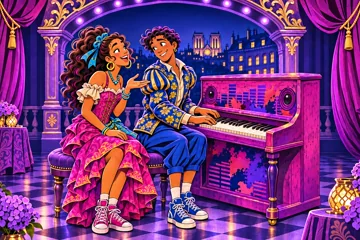
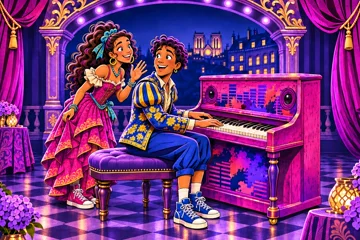
Correct the ballroom meeting and surprise at the piano

diff --git a/src/components/StoryLighting.tsx b/src/components/StoryLighting.tsx
@@ -5,8 +5,6 @@ type Light = [x: number, y: number, color: 'gold' | 'rose' | 'blue'];
 type LightingCue = {label: string; announcement: string; target: [number, number]; pools: readonly Light[]};
 
 const lighting: Partial<Record<number, LightingCue>> = {
-  15: {label: 'להאיר את הפסנתר', announcement: 'האור עובר מהקלידים אל פרנסואה ומיי.', target: [43, 71], pools: [[43, 62, 'gold'], [31, 30, 'blue'], [62, 26, 'rose']]},
-  17: {label: 'להאיר את הקלידים', announcement: 'אור ורוד נוגע בקלידים, וג׳ולייט ופרנסואה מקשיבים זה לזה.', target: [65, 61], pools: [[64, 53, 'rose'], [46, 25, 'blue'], [32, 27, 'gold']]},
   19: {label: 'להדליק אור לשניים', announcement: 'אנג׳ליק ולאנס מזהים זה את זו.', target: [50, 66], pools: [[32, 31, 'rose'], [64, 30, 'gold']]},
   22: {label: 'להאיר את השיחה', announcement: 'אור רך מתקרב אל מיי ופרנסואה.', target: [48, 71], pools: [[38, 34, 'blue'], [60, 36, 'rose']]},
   27: {label: 'לראות מי מחזיק בנוצה', announcement: 'אור נפרד מאיר את אן ואת שייקספיר בזמן הוויכוח.', target: [50, 70], pools: [[34, 34, 'rose'], [69, 36, 'gold']]},

diff --git a/build/offline-book-plugin.ts b/build/offline-book-plugin.ts
@@ -28,8 +28,8 @@ export function offlineBook(): Plugin {
         const scene = String(i).padStart(2, '0');
         for (const kind of ['story','thumbs']) if (!names.includes(`assets/${kind}/scene-${scene}.webp`)) throw new Error(`Offline book inventory is missing ${kind}/scene-${scene}.webp`);
       }
-      const performanceFrames = [18,20,26,31,33,36,38,40,42,43,46,48].flatMap(scene => ['prep','hit'].map(pose => `assets/performance/scene-${scene}-${pose}.webp`));
-      const restingArtwork = ['01','15','17','18','33'].map(scene => `assets/performance/scene-${scene}-rest.webp`);
+      const performanceFrames = [15,17,18,20,26,31,33,36,38,40,42,43,46,48].flatMap(scene => ['prep','hit'].map(pose => `assets/performance/scene-${scene}-${pose}.webp`));
+      const restingArtwork = ['01','18','33'].map(scene => `assets/performance/scene-${scene}-rest.webp`);
       for (const path of [...performanceFrames, ...restingArtwork]) if (!names.includes(path)) throw new Error(`Offline book inventory is missing ${path}`);
       if (!names.includes('index.html')) throw new Error('Offline book inventory requires index.html');
       const template = await readFile(resolve(config.root, 'build/offline-book-worker.js'), 'utf8');

diff --git a/src/components/Stage.tsx b/src/components/Stage.tsx
@@ -18,6 +18,8 @@ type Geometry = {hotspots: Point[]; interactionAnchor?: {x: number; y: number}};
 const sceneGeometry = geometry.scenes as Record<string, Geometry>;
 
 const performanceCues: Partial<Record<ChoreographyScene, {x: number; y: number; icon: IconName; label: string; announcement: string}>> = {
+  15: {x: 48, y: 78, icon: 'spark', label: 'לפגוש את פרנסואה', announcement: 'מיי ופרנסואה נתקלים זה בזה ומחייכים.'},
+  17: {x: 50, y: 75, icon: 'music', label: 'להפתיע את פרנסואה בפסנתר', announcement: 'ג׳ולייט מגיעה מאחור. פרנסואה מסתובב אליה ומחייך.'},
   18: {x: 42, y: 77, icon: 'music', label: 'לרקוד על השולחן', announcement: 'ג׳ולייט ופרנסואה רוקדים על השולחן!'},
   20: {x: 51, y: 40, icon: 'music', label: 'לנסות את הצעד של לאנס', announcement: 'אנג׳ליק תופסת את לאנס והוא חוזר לרקוד.'},
   26: {x: 47, y: 71, icon: 'spark', label: 'לפתוח מקום לג׳ולייט', announcement: 'ג׳ולייט פונה לקהל ורומיאו מקשיב.'},

diff --git a/src/content/scenes.ts b/src/content/scenes.ts
@@ -27,7 +27,7 @@ export const characterInfo: Record<CharacterId, {name: string; description: stri
   romeo: {name: 'רומיאו', description: "כוכב עם המון ביטחון. גם הוא יכול ללמוד להקשיב ולהכיר את ג'ולייט מחדש.", image: 'romeo'},
 };
 export const asset = (path: string) => `${import.meta.env.BASE_URL}assets/${path}`;
-const revisedArt: Partial<Record<number, 'rest' | 'hit'>> = {1: 'rest', 15: 'rest', 17: 'rest', 18: 'rest', 31: 'hit', 33: 'rest', 46: 'hit'};
+const revisedArt: Partial<Record<number, 'rest' | 'hit'>> = {1: 'rest', 15: 'hit', 17: 'hit', 18: 'rest', 31: 'hit', 33: 'rest', 46: 'hit'};
 const sceneFile = (scene: number) => `scene-${String(scene).padStart(2, '0')}`;
 export const illustration = (scene: number) => asset(revisedArt[scene]
   ? `performance/${sceneFile(scene)}-${revisedArt[scene]}.webp`

diff --git a/src/components/CharacterChoreography.tsx b/src/components/CharacterChoreography.tsx
@@ -4,6 +4,28 @@ import {asset} from '../content/scenes';
 import '../styles/character-choreography.css';
 
 const performances = {
+  15: {
+    entrance: .62,
+    rest: 7.2,
+    light: [.56],
+    moves: [
+      ['prep', 1, .22, .04],
+      ['hit', 1, .23, .61],
+      ['prep', 0, 0, .86],
+      ['hit', 0, .22, 2.14],
+    ],
+  },
+  17: {
+    entrance: .75,
+    rest: 8,
+    light: [1.12],
+    moves: [
+      ['prep', 1, .30, .04],
+      ['hit', 1, .42, 1.15],
+      ['prep', 0, 0, 1.59],
+      ['hit', 0, .28, 2.69],
+    ],
+  },
   18: {
     entrance: .7,
     rest: 7,

diff --git a/src/styles/character-choreography.css b/src/styles/character-choreography.css
@@ -26,6 +26,14 @@
   will-change: opacity;
 }
 
+.character-choreography[data-choreography="15"] .choreography-light {
+  background: radial-gradient(ellipse at 49% 29%, #ffc0db45, transparent 60%);
+}
+
+.character-choreography[data-choreography="17"] .choreography-light {
+  background: radial-gradient(ellipse at 49% 43%, #ffd6aa44, transparent 56%);
+}
+
 .character-choreography[data-choreography="18"] .choreography-light {
   background: radial-gradient(ellipse at 30% 39%, #ffc97848, transparent 48%);
 }

diff --git a/docs/LIVE_MUSICAL_DIRECTION_HE.md b/docs/LIVE_MUSICAL_DIRECTION_HE.md
@@ -27,7 +27,7 @@
 
 ## הפסנתר והתלבושת
 
-הצילום המצורף של ג׳ולייט ופרנסואה ליד הפסנתר מנחה את עיצוב הכלי. לגוף הפסנתר חזית בסגנון בומבוקס עם שני עיגולי רמקולים וצבעי תכלת, ורוד וסגול. פרנסואה מזוהה לפי התלתלים הקצרים והז׳קט הכחול הפרחוני. בסצנה 17 הם נפגשים ליד הפסנתר ב־**Overprotected**. בסצנה 18 הם רוקדים על שולחן ב־**Confident**, ואז האיור חוזר לנשיקה שמיי רואה. [מדריך ההפקה הרשמי](https://andjulietthemusical.com/wp-content/uploads/2025/02/AJ-110925-019140-EducationPack_TeacherWorkbook_L2-2.pdf)
+הצילום המצורף של ג׳ולייט ופרנסואה ליד הפסנתר מנחה את עיצוב הכלי. לגוף הפסנתר חזית בסגנון בומבוקס עם שני עיגולי רמקולים וצבעי תכלת, ורוד וסגול. פרנסואה מזוהה לפי התלתלים הקצרים והז׳קט הכחול הפרחוני. מיי נתקל בפרנסואה בין הרוקדים בנשף. בסצנה 17 ג׳ולייט שומעת את פרנסואה מנגן לבד בפסנתר ומפתיעה אותו מאחור ב־**Overprotected**. בסצנה 18 הם רוקדים על שולחן ב־**Confident**, ואז האיור חוזר לנשיקה שמיי רואה. [מדריך ההפקה הרשמי](https://andjulietthemusical.com/wp-content/uploads/2025/02/AJ-110925-019140-EducationPack_TeacherWorkbook_L2-2.pdf)
 
 ב־**Roar** תצלום התלבושת מנחה את המחוך המוזהב עם הפסים האלכסוניים, מכנסי הבלון בפוקסיה והמגפיים הסגולים הגבוהים. המרפסת הירוקה וזיקוקי ה־LED נשארים עוגני הסצנה. אותה תלבושת משמשת בפריים המנוחה, בשירה לתוך המיקרופון ובהנפה מעל הראש.
 
@@ -48,7 +48,7 @@
 
 | סצנה | שיר | מה רון מזהה | בימוי | נכסים |
 |---|---|---|---|---|
-| 01 · יש לי מחזה חדש! | Larger Than Life | שייקספיר הוא מי שמספר את הסיפור | פריים רחב כמו פתיחת מסך. הספוט הזהוב מציג את שייקספיר ואת הנוצה, ופרנסואה מלווה בפסנתר בקצה השמאלי. | איור במה מתוקן. |
+| 01 · יש לי מחזה חדש! | Larger Than Life | שייקספיר הוא מי שמספר את הסיפור | פריים רחב כמו פתיחת מסך. הספוט הזהוב מציג את שייקספיר ואת הנוצה, ופרנסואה מוחא כפיים בקצה השמאלי. | איור במה מתוקן. |
 | 02 · הסוף הכי עצוב בעולם | — | כולם נבהלים מהסוף ששייקספיר כתב | הקידה של שייקספיר בפרונט. שלוש תגובות קבוצתיות ברורות כהד. דף נופל והאור נרגע. | קיים. להניע דף נפרד בלי להמחיש מוות. |
 | 03 · רגע, ויליאם! | I Want It That Way | אן עוצרת את שייקספיר ומציעה שינוי | שתי דמויות בגובה שווה. הספוט מוצא את אן, ומבטו של שייקספיר עובר מהנוצה אליה. כף היד והנוצה נשארות מובחנות. | מסכות קיימות. השתמשו בנוצה, אמה וראש בקוד. |
 | 04 · ומה אם היא תבחר לחיות? | — | אן מצביעה על אפשרות חדשה | כיוון היד של אן מוביל אל הפתח הוורוד שבאיור. האירו את הפתח ואז הוליכו אליו את דפי התסריט. | קיים. שכבת דפים מקומית, בלי ציור חדש. |
@@ -62,9 +62,9 @@
 | 12 · פריז! אבל איזו מסיבה! | — | הם הגיעו לעיר שבה יש נשף | מסגרת הקשת היא יעד הגעת העין. הדליקו את אורות הכניסה ברצף, ואז האירו את ג׳ולייט המסתובבת אליהם. | קיים. שכבות אור בלבד בשלב ראשון. |
 | 13 · לנשף הזה נכנסים! | — | החבורה מצליחה להיכנס לנשף | שמרו על השומר, החיוך של אן והמבט של ג׳ולייט לכיוון האולם. פתחו כנף דלת אחת וחישפו אור מאחוריה. | לבדוק חיתוך דלת. במידת הצורך להשלים פס רקע מאחוריה. |
 | 14 · הנברשת והבום! | Blow | ג׳ולייט מתנדנדת מעל הרקדנים | פריים רחב שבו רואים חיבור תקרה, נברשת וג׳ולייט, והקהל מתחת נותן קנה מידה. אם כבר יש אפקט קהל זמין, אפשר להפעיל אותו כנגיעה נפרדת. | מסכות ורקע נקי קיימים. השתמשו בטווח הנדנוד המתועד. |
-| 15 · מיי פוגש את פרנסואה | — | מיי ופרנסואה מתחילים להכיר | מיי מושיט כף יד, ופרנסואה מפנה אליו את המבט ליד הפסנתר. | איור במה מתוקן. |
+| 15 · מיי פוגש את פרנסואה | — | מיי ופרנסואה מתחילים להכיר | מיי ופרנסואה כמעט מתנגשים בין הרוקדים, תופסים שיווי משקל ומחליפים חיוך. | שני פריימים על רחבת הנשף. |
 | 16 · מיי הוא פשוט מיי | I’m Not a Girl, Not Yet a Woman | ג׳ולייט מקשיבה למיי ומקבלת אותו | השתמשו בישיבה בגובה עיניים ובקשר העין הקיים. קצרו את המרחק בתחושה בעזרת אור משותף וחיוך קטן. | קיים. רגע שקט, מחווה קטנה בלבד. |
-| 17 · מי מחליט בשביל פרנסואה? | Overprotected | ג׳ולייט ופרנסואה מגלים שיש להם בעיה דומה | פרנסואה יושב ליד פסנתר הבומבוקס. ג׳ולייט מתקרבת אליו והשניים מחליפים חיוך. | איור במה מתוקן לפי צילום הפסנתר. |
+| 17 · מי מחליט בשביל פרנסואה? | Overprotected | ג׳ולייט ופרנסואה מגלים שיש להם בעיה דומה | פרנסואה מנגן לבד. ג׳ולייט יוצאת מאחורי הווילון ומתגלה מאחורי כתפו. הוא מסתובב בהפתעה ומחייך. | שני פריימים לפי צילום הפסנתר. |
 | 18 · נשיקה אחת, בלגן גדול | Confident | ג׳ולייט ופרנסואה רוקדים, ומיי רואה את הנשיקה | שני הרקדנים מחליפים צעד על השולחן. כשהריקוד מסתיים, האיור חוזר לזוג ולמבט של מיי בחזית. | איור מנוחה ושני פריימים של הריקוד. |
 | 19 · אנג׳ליק? זאת את? | — | אנג׳ליק ולאנס מזהים זה את זו | הם עומדים זה מול זו עם מחוות מראה. עצירה קצרה והטיית ראש הופכות את ההיכרות המחודשת לקריאה. | קיים. זוג שכבות קטנות או תאורה מדורגת. |
 | 20 · רוקדים שוב יחד | Teenage Dream / Break Free | לאנס מנסה להרשים ואנג׳ליק צוחקת | לאנס עושה צעד גדול וכמעט מאבד שיווי משקל. אנג׳ליק מחזיקה בידו והם חוזרים לעמידה. | איור המקור ושני פריימים משלימים. |

diff --git a/source-assets/performance/FIRST_ENCOUNTERS_PROMPTS.md b/source-assets/performance/FIRST_ENCOUNTERS_PROMPTS.md
@@ -1,0 +1,11 @@
+# The two first encounters
+
+Built-in ImageGen, using the previous corrected scene PNG for the illustrated identities and stage palette. Scene 15 takes place on the dance floor. Scene 17 is a separate entrance from behind the piano bench.
+
+## Scene 15
+
+Edit the source into a pair of two animation frames. Output exactly ONE wide 3:1 diptych of two separate edge-to-edge same-size full-bleed 3:2 landscape frames, joined exactly at center with no gutter, lettering, graphics, labels. Keep the original richly inked 2D pop Renaissance Broadway storybook and exact character designs/clothing: May with short purple curls and undercut, violet Renaissance waistcoat over cream sleeves and gold hoop, and François with dark short curls and the blue-yellow floral coat and blue sneakers. Reblock to accurately depict their FIRST encounter: they bump into each other among a busy Renaissance ballroom crowd at the Paris party. Remove the piano and any instrument. Now both leads are STANDING on the crowded checkerboard dance floor, clearly full-body center-left, May left and François right. Visible out of focus or silhouetted smaller background dancers on floor, arches, gold staircase and violet/cyan festoons explain the party while the main two are beautifully clear. A chance encounter in motion, as in a musical. No poster or DJ desk. Frame LEFT: moving in opposite directions, May glances briefly over their left shoulder and unexpectedly brushes against François, whose eyes widen gently; both take a short recovery step and raise open palms, separate with safe friendly body language. Frame RIGHT: both have caught their balance and make eye contact, at the same positions, friendly surprised smiles, May's hand at chest saying hello, François gives a small greeting, their feet on the floor. Same composition and camera between panels, no collision injury, no caricature, no other lead, no instruments in either frame.
+
+## Scene 17
+
+Edit the supplied 3:2 canonical style piano illustration into a gentle surprise sequence. One 3:1 diptych made from TWO whole 3:2 images with exact same camera and stage, flush at center, no gutter, lettering, frames, or watermark. Current piano stage set is the edit target, with the magenta boombox upright piano, black and ivory keys visible, navy purple art nouveau Paris arches and velvety curtains. Keep the approved original illustrated character identities, saturated finely inked picture-book colors, faces, warm skin tones and exactly same clothes: François in royal-blue floral embroidered gold coat, Juliet in pink Renaissance ruffled dress, dark curls, blue bow. IMPORTANT change to blocking: François is the ONLY person seated. He sits front center angled to the right facing the keys. LEFT FRAME: François plays piano looking down at his hands, happy but concentrating, thinking he is alone. Juliet not seated, quietly peeks into the room from behind on the left in the deeper upstage plane, coming from the rear of the bench, lightly holding the edge of her pink skirt or curtain as she approaches. He does not see her. RIGHT FRAME: François stays seated at the same piano bench with his lower body and one hand still on keys, but turns his head back over his LEFT shoulder and looks surprised with a sweet open smile. Juliet is STILL STANDING behind his shoulder and slightly to the viewer’s left, leans forward playfully with bright smile and one small wave near him to say hello. No simultaneous frontal sitting. Her head and shoulders are plainly BEHIND and higher than his, approach clearly reads as from behind. Piano occupies right half with keys visible at x55–75%, people and faces centered left so readable with text to the right outside illustration. Stage is quiet and empty except these two, no other audience. No guitar, alcohol, microphone, or speech balloons. Consistent fixed stage/piano/camera positions between frames.

diff --git a/docs/ANIMATION_ASSETS.md b/docs/ANIMATION_ASSETS.md
@@ -77,6 +77,8 @@ These keyframes were generated with the built-in ImageGen using the original pai
 
 | Scene | Prep and hit poses | Archived sheet |
 | --- | --- | --- |
+| 15, the first meeting | May and François nearly bump into each other on a busy dance floor, then exchange a smile. | [scene-15-keyframes.png](../source-assets/performance/scene-15-keyframes.png) |
+| 17, Overprotected | François plays the piano alone. Juliet appears from behind and he turns to her. | [scene-17-keyframes.png](../source-assets/performance/scene-17-keyframes.png) |
 | 18, Confident | Juliet and François dance on the banquet table, then the scene returns to the piano and May's reaction. | [Dance sheet](../source-assets/performance/scene-18-keyframes.png) · [Piano still source](../source-assets/performance/scene-18-piano-reference.png) |
 | 20, Teenage Dream / Break Free | Angélique holds Lance's hand as he almost loses his balance. | [scene-20-keyframes.png](../source-assets/performance/scene-20-keyframes.png) |
 | 26, Since U Been Gone | Juliet opens up to the audience while Romeo listens and gives her space. | [scene-26-keyframes.png](../source-assets/performance/scene-26-keyframes.png) |
@@ -90,9 +92,9 @@ These keyframes were generated with the built-in ImageGen using the original pai
 | 46, Roar | Juliet sings and lifts the microphone in her gold, fuchsia and purple costume; François cheers empty-handed below. | [scene-46-costume-keyframes.png](../source-assets/performance/scene-46-costume-keyframes.png) |
 | 48, curtain call | Eight cast members face the house and then bend forward together. | [scene-48-keyframes.png](../source-assets/performance/scene-48-keyframes.png) |
 
-To recreate a runtime crop, use FFmpeg with libwebp. Put both WebPs for each scene in `public/assets/performance/`. The offline build checks for all 24 and records their hashes. The corrected stills in 01, 15, 17, 18, 31, 33 and 46 also serve the scene picker thumbnails. Canonical masters and the previous blue Roar sheet remain archived.
+To recreate a runtime crop, use FFmpeg with libwebp. Put both WebPs for each scene in `public/assets/performance/`. The offline build checks for all 28 and records their hashes. The corrected stills in 01, 15, 17, 18, 31, 33 and 46 also serve the scene picker thumbnails. Canonical masters and the previous blue Roar sheet remain archived.
 
-`StoryLighting.tsx` sequences focused light over the piano keys, listening characters, wedding arch, or group hug in 11 quieter scenes. The movement is composed independently of the official music player.
+`StoryLighting.tsx` sequences focused light over listening characters, the wedding arch, or a group hug in nine quieter scenes. The movement is composed independently of the official music player.
 
 ```sh
 ffmpeg -i source-assets/performance/scene-38-keyframes.png \

diff --git a/docs/OFFLINE_READING.md b/docs/OFFLINE_READING.md
@@ -4,7 +4,7 @@ Settings mounts `<OfflineBook/>`. The App also observes the browser's online sta
 
 The production build inventories its actual output and emits `offline-book-manifest.json` and `offline-book-sw.js`. The inventory contains the built HTML/JS/CSS, all 48 original story illustrations, all 48 thumbnails, every clean plate present in `assets/premium`, cover/character/theatre artwork, local fonts, and icons. The plugin rejects a build missing any of the 48 original illustrations or thumbnails. Its version derives from file contents and the worker implementation. No audio/video extension or remote URL can enter the inventory.
 
-The build requires all 24 choreography keyframes for scenes 18, 20, 26, 31, 33, 36, 38, 40, 42, 43, 46 and 48, and the corrected stills under `assets/performance`. A complete saved edition includes them. Readers with an older saved edition can refresh it from Settings while connected.
+The build requires all 28 choreography keyframes for scenes 15, 17, 18, 20, 26, 31, 33, 36, 38, 40, 42, 43, 46 and 48, and the corrected stills under `assets/performance`. A complete saved edition includes them. Readers with an older saved edition can refresh it from Settings while connected.
 
 Opening Settings requests only the small inventory and the status of an already installed worker. The explicit “נשמור את הספר לדרך” action registers the worker and starts the book download. Size, progress, cancellation, storage errors, and retry are visible. The worker verifies the size and SHA-256 of each response before caching it. Cancellation preserves verified files and a previous complete edition. Completion is reported after every inventory file is cached and the completion marker is written.
 
